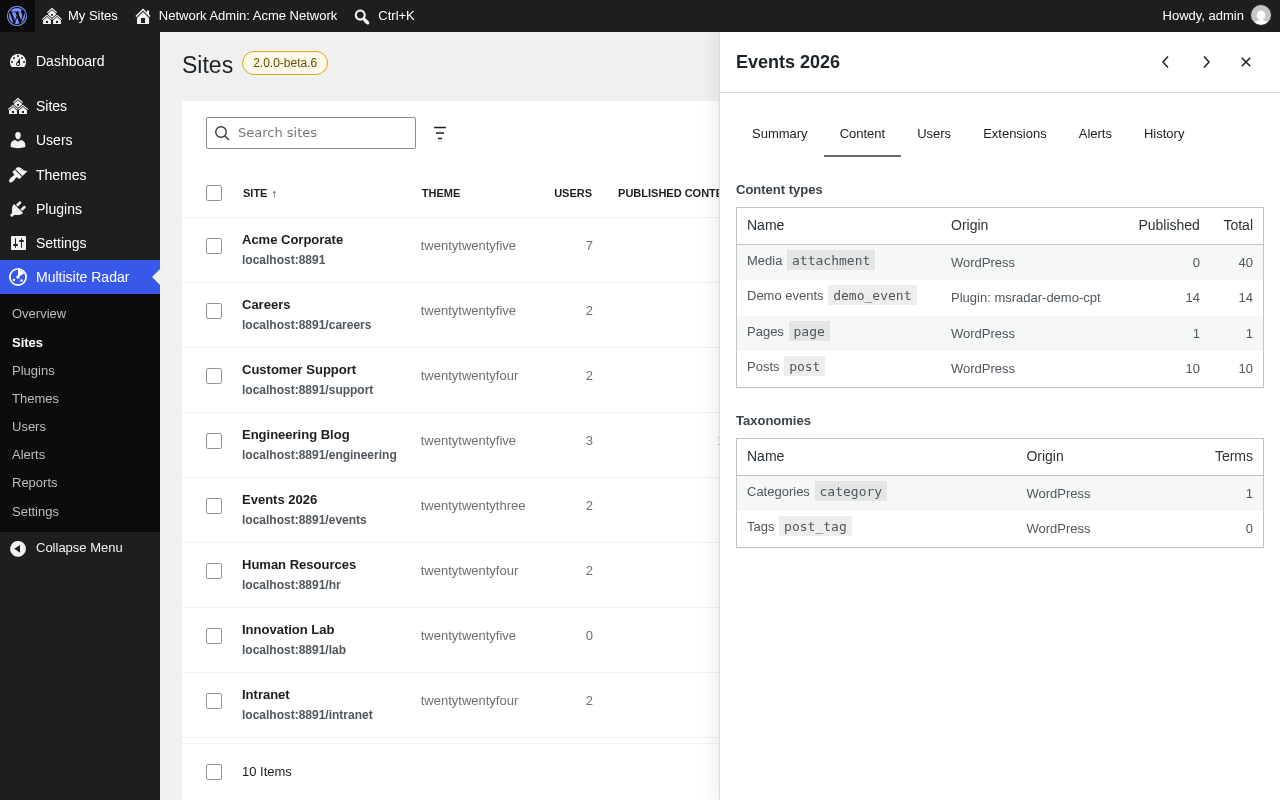
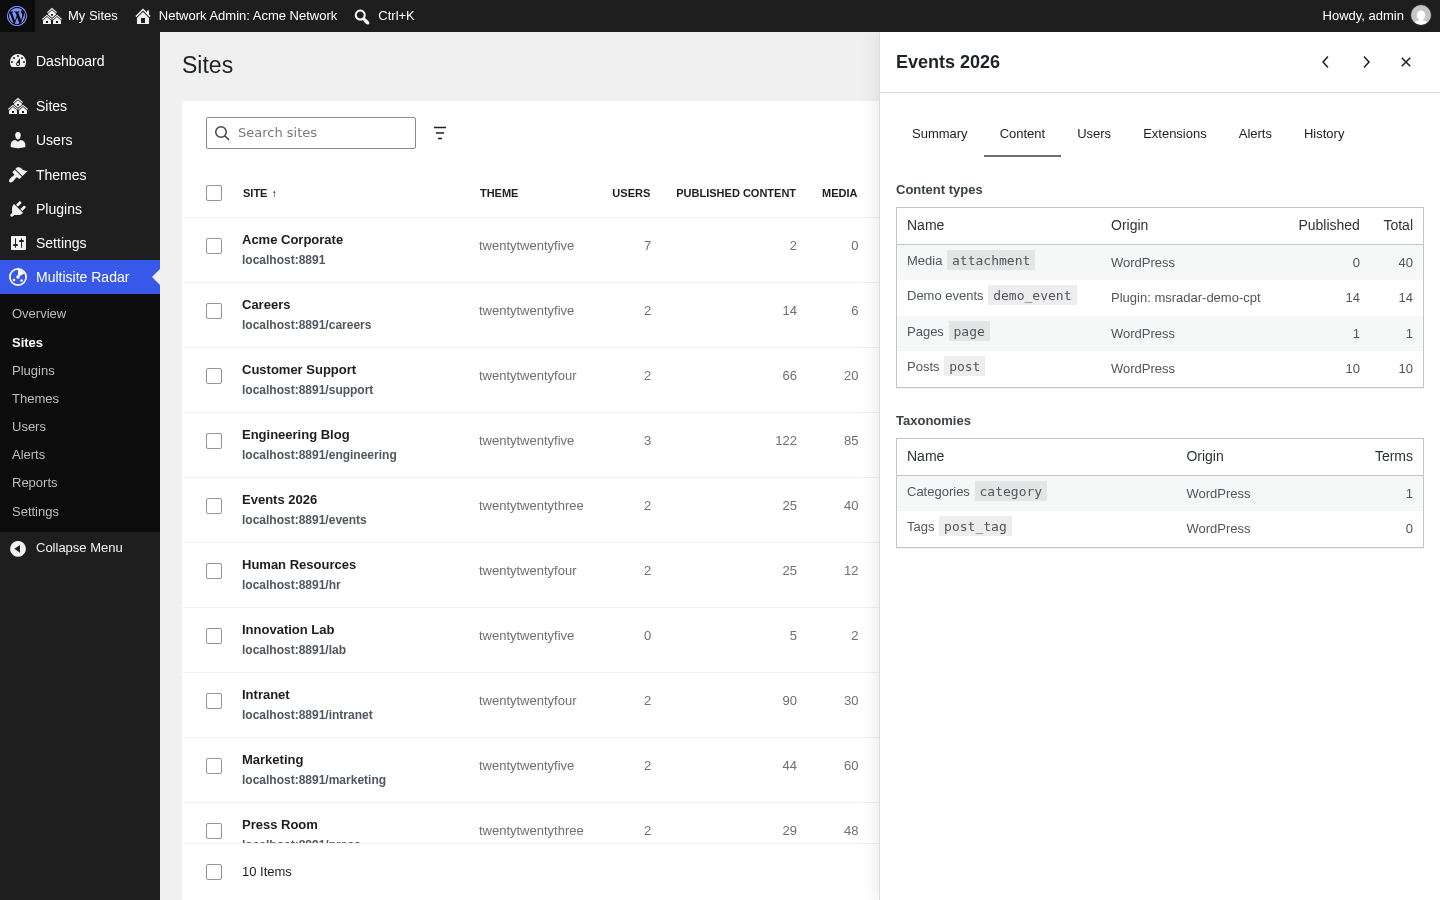
build: hide the version and widen the WordPress.org screenshots

diff --git a/tests/e2e/screenshots/wporg.spec.js b/tests/e2e/screenshots/wporg.spec.js
@@ -7,20 +7,22 @@ import { expect, test } from '@wordpress/e2e-test-utils-playwright';
 
 const OUT = path.join( process.cwd(), '.wordpress-org' );
 
-test.use( { viewport: { width: 1280, height: 800 } } );
+test.use( { viewport: { width: 1440, height: 900 } } );
 test.describe.configure( { mode: 'serial' } );
 
-async function shoot( page, number ) {
-	// Les avis de WordPress (mise à jour disponible) n'ont pas leur place dans les captures.
+async function shoot( page, number, fullPage = false ) {
+	// Les avis de WordPress (mise à jour disponible) et la version du plugin n'ont pas leur place dans les captures :
+	// elles ne doivent pas vieillir à chaque publication.
 	await page.addStyleTag( {
 		content:
-			'#wpbody-content .notice, #wpbody-content .update-nag { display: none !important; }',
+			'#wpbody-content .notice, #wpbody-content .update-nag, .msradar-version, #footer-upgrade { display: none !important; }',
 	} );
 	await page.mouse.move( 0, 0 );
 	await page.screenshot( {
 		path: path.join( OUT, `screenshot-${ number }.png` ),
 		animations: 'disabled',
 		caret: 'hide',
+		fullPage,
 	} );
 }
 
@@ -37,7 +39,7 @@ test( '1. Overview', async ( { admin, page } ) => {
 	await expect(
 		page.locator( '.msradar-alerts-trend svg.msradar-trend__chart' )
 	).toBeVisible();
-	await shoot( page, 1 );
+	await shoot( page, 1, true );
 } );
 
 test( '2. Sites', async ( { admin, page } ) => {
@@ -81,7 +83,7 @@ test( '6. Reports', async ( { admin, page } ) => {
 	await expect(
 		page.locator( '.msradar-reports__trends svg.msradar-trend__chart' )
 	).toHaveCount( 3 );
-	await shoot( page, 6 );
+	await shoot( page, 6, true );
 } );
 
 test( '7. Settings, an alert rule', async ( { admin, page } ) => {
